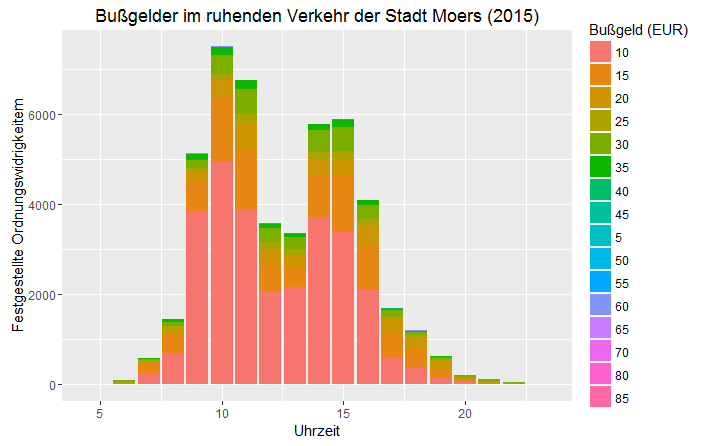
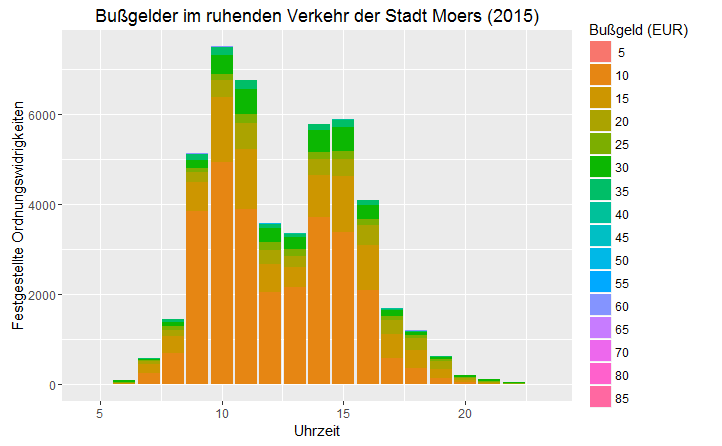
Fix Legende, Erg. seltene OWIs

diff --git a/README.md b/README.md
@@ -35,6 +35,13 @@ Zu den einzelnen Tatbeständen sind Heatmaps verfügbar, die vom OK-Lab Zürich 
 
 Die meisten Ordnungswidrigkeiten wurden an einem **Dienstag** (9911 Fälle) begangen (bzw. registriert), **Freitag** (7603 Fälle), **Samstag** (2641 Fälle) und **Sonntag** (367 Fälle) sind vergleichsweise selten betroffen.
 
+### Ausnahmetatbestände
+Sehr selten erfasst wurden folgende Tatbestände.
+
+* Sie schalteten missbräuchlich das Warnblinklicht ein. (2 Fälle)
+* Sie parkten verbotswidrig länger als 1 Stunde im Bereich eines Taxenstandes (Zeichen 229). (1 Fall)
+* Sie hielten/parkten näher als 10 Meter vor einem Andreaskreuz und verdeckten dieses. (1 Fall)
+
 ### Zeitliche Verteilung der Tatbestände 
 
 Die Balkengrafik zeigt die Verteilung auf die Stunden des Tages. Dabei wird auch der zu zahlende Betrag farblich repräsentiert. (Am häufigsten: 10,- EUR) 
